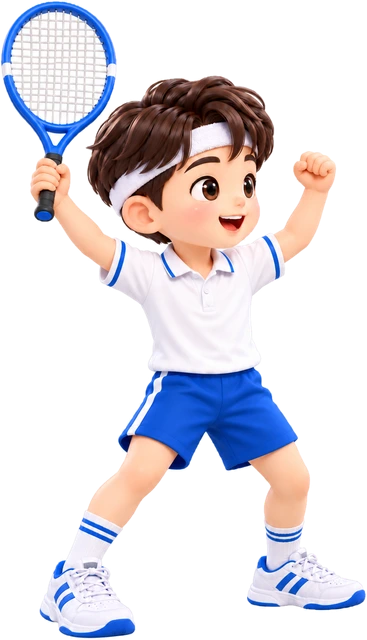
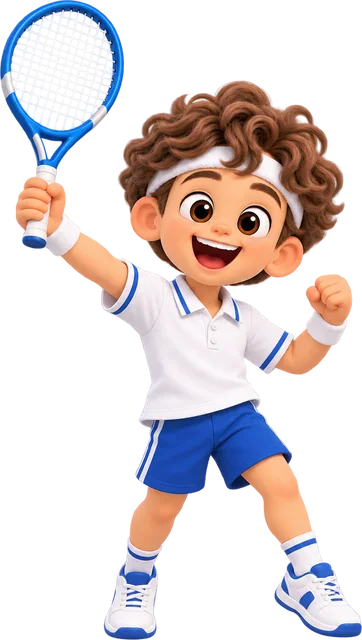
Add files via upload

diff --git a/games/school/judo/index.html b/games/school/judo/index.html
@@ -1,49 +1,46 @@
-<!doctype html><html lang="ko"><head><meta charset="utf-8"><meta name="viewport" content="width=device-width,initial-scale=1,viewport-fit=cover"><title>유도</title><link rel="stylesheet" href="../kit.css"></head><body><script src="../kit.js"></script><script>
-// 유도: 먼저 경례! 그다음 '낙법' — 둥근 신호가 작아질 때 버튼을 눌러 팔로 매트를 탁! 안전하게 넘어지고 다시 일어나요.
-const K = Kit, GOAL = K.easy ? 3 : 5, RING = K.easy ? 2.0 : 1.4, WIN = K.easy ? 0.5 : 0.3;
-let round, state, t, slap, slapQ, perfect, playing, ripple = 0;
-function reset() { round = 0; perfect = 0; playing = true; begin('bow'); K.label('경례!'); }
-function begin(s) { state = s; t = 0; slap = 0; slapQ = 0; if (s === 'bow') K.say('먼저 서로 인사해요. 경례!'); if (s === 'grip') K.say('옷깃을 잡았어요. 신호를 기다려요'); if (s === 'ring') { K.say('신호가 작아질 때 눌러서 팔로 탁!'); K.label('낙법 탁!'); } if (s === 'fall') K.label('낙법 탁!'); }
-K.onPress(() => {
-  if (!playing) return;
-  if (state === 'bow') { begin('bowdo'); return; }
-  if ((state === 'ring' || state === 'fall') && !slap) { slap = 1; const left = RING - t; slapQ = state === 'fall' ? 0.6 : left < WIN * 0.55 ? 2 : left < WIN ? 1 : 0; if (state === 'fall') slapQ = 1; if (slapQ === 2) perfect++; K.beep(220, 0.12, 'square', 0.1); if (state === 'ring') { /* 일찍 눌러도 신호 끝에 쓰러져요 */ } }
-});
-function update(dt) {
-  if (!playing) return; t += dt; ripple = Math.max(0, ripple - dt * 2); K.hud(`${Math.min(round, GOAL)} / ${GOAL}`);
-  if (state === 'bowdo' && t > 1.1) { if (round >= GOAL) { playing = false; K.say('경례! 수고했어요'); setTimeout(() => K.finish('멋진 유도! 참 잘했어요', '안전하게 넘어지고 일어나는 법을 배웠어요!', perfect >= GOAL ? 3 : perfect >= 1 ? 2 : 1, reset), 700); } else begin('grip'); }
-  else if (state === 'grip' && t > 1.0) begin('ring');
-  else if (state === 'ring' && t > RING) { begin('fall'); }
-  else if (state === 'fall' && t > 0.55) { if (slapQ === 0) slapQ = 0.4; ripple = 1; K.burst(K.W * 0.34, K.H * 0.8, slapQ >= 1 ? '#ffd24a' : '#fff', slapQ >= 1 ? 16 : 6); K.say(slapQ >= 2 ? '완벽한 낙법! 최고예요 👍' : slapQ >= 1 ? '좋은 낙법! 잘했어요' : '괜찮아요, 다음엔 팔로 탁!'); if (slapQ >= 1) K.good(); else K.soft(); begin('lie'); }
-  else if (state === 'lie' && t > 1.4) { begin('rise'); }
-  else if (state === 'rise' && t > 1.0) { round++; if (round >= GOAL) { begin('bow'); K.say('마지막 인사! 경례!'); K.label('경례!'); } else begin('grip'); }
-}
+<!doctype html><html lang="ko"><head><meta charset="utf-8"><meta name="viewport" content="width=device-width,initial-scale=1,viewport-fit=cover"><title>유도복 입기</title><link rel="stylesheet" href="../kit.css"></head><body><script src="../kit.js"></script><script>
+// 유도: 도복 입기. 버튼을 한 번 누를 때마다 도복 한 벌씩 입고, 마지막엔 멋지게 경례! 틀리거나 늦는 일이 없어요.
+const K = Kit;
+const STEPS = [
+  { say: '먼저 도복 상의와 띠를 입어요!', label: '상의 입기!', items: ['item_top', 'item_belt'], pose: 'judo_1', done: '도복 상의와 띠 완성!' },
+  { say: '이번엔 도복 바지를 입어요!', label: '바지 입기!', items: ['item_pants'], pose: 'judo_3', done: '도복 바지까지 완성!' },
+  { say: '다 입었어요! 서로 인사해요', label: '경례!', items: [], pose: 'judo_bow', done: '경례! 멋진 유도 선수예요' }];
+let step, t, fly, pose, playing, wearT, bowT, flyT0 = 0;
 const ease = (x) => x * x * (3 - 2 * x);
+function reset() { step = 0; t = 0; fly = 0; pose = 'judo_0'; playing = true; wearT = 0; bowT = 0; K.say(STEPS[0].say); K.label(STEPS[0].label); K.hud('0 / 3'); }
+K.onPress(() => {
+  if (!playing || fly > 0) return;
+  const S = STEPS[step]; fly = 1; flyT0 = t; wearT = 0; K.beep(520 + step * 120, 0.12);
+  setTimeout(() => { pose = S.pose; wearT = 1; K.good(); K.burst(K.W * 0.34, K.H * 0.5, '#ffd24a', 18); K.say(S.done); K.hud(`${step + 1} / 3`);
+    setTimeout(() => {
+      step++; fly = 0;
+      if (step >= STEPS.length) { playing = false; setTimeout(() => K.finish('멋진 유도복! 참 잘했어요', '도복을 모두 입고 경례까지 했어요!', 3, reset), 1000); }
+      else { K.say(STEPS[step].say); K.label(STEPS[step].label); }
+    }, 900);
+  }, 650);
+});
+function update(dt) { t += dt; wearT = Math.max(0, wearT - dt * 2); }
 function draw(c, W, H) {
-  const gy = H * 0.76, s = Math.min(H, W) * 0.2; K.sky(gy, '#f8f1e2', '#fff9ee');
-  c.fillStyle = '#ece0c6'; c.fillRect(0, 0, W, gy * 0.9); c.fillStyle = '#c9b78d'; for (let x = 0; x < W; x += 140) c.fillRect(x, 0, 5, gy * 0.9); K.text('柔道', W / 2, H * 0.16, Math.min(H, W) * 0.12, '#c9b78d');
-  // 다다미 매트
+  const gy = H * 0.7, s = Math.min(H, W) * 0.2; K.sky(gy, '#f8f1e2', '#fff9ee');
+  c.fillStyle = '#ece0c6'; c.fillRect(0, 0, W, gy * 0.9); c.fillStyle = '#c9b78d'; for (let x = 0; x < W; x += 140) c.fillRect(x, 0, 5, gy * 0.9); K.text('柔道', W / 2, H * 0.14, Math.min(H, W) * 0.12, '#c9b78d');
   const cols = ['#8ec26f', '#7bb35f']; for (let i = 0; i < 8; i++) { c.fillStyle = cols[i % 2]; c.beginPath(); c.moveTo(i * W / 8 - 30, gy); c.lineTo((i + 1) * W / 8 - 30, gy); c.lineTo((i + 1) * W / 8 + 10, H); c.lineTo(i * W / 8 + 10, H); c.fill(); }
   c.fillStyle = '#c0392b'; c.fillRect(0, gy, W, 6);
-  const ux = W * 0.34, tx = W * 0.66; // 나(uke, 흰 도복) / 파트너(tori, 파란 도복)
-  const bow = state === 'bowdo' ? Math.sin(Math.min(1, t / 1.1) * Math.PI) * 0.4 : state === 'bow' ? 0 : 0;
-  const grip = (state === 'grip' || state === 'ring' || state === 'fall') ? 1 : 0;
-  // 파트너(파란 셔츠 친구)
-  const ta = state === 'fall' ? Math.min(1, t / 0.55) : 0, hs = s * 2.3;
-  K.spr('sq', tx, gy + 26, hs * 0.92, { face: -1, rot: -(bow + ta * 0.1), px: 0.5 });
-  // 나(달리기 소년): 경례 → 잡기 → 낙법 → 일어나기
-  const lieY = gy + 26 - s * 0.05;
-  let rot = bow, px = ux, py = gy + 26, nm = grip ? 'run_ready' : 'run_idle';
-  if (grip) nm = 'run_idle';
-  if (state === 'fall') { const k = ease(Math.min(1, t / 0.55)); rot = -k * Math.PI / 2; px = ux + k * hs * 0.38; nm = 'run_idle'; }
-  if (state === 'lie') { rot = -Math.PI / 2; px = ux + hs * 0.38; nm = 'run_idle'; }
-  if (state === 'rise') { const k = ease(Math.min(1, t / 1.0)); rot = -(1 - k) * Math.PI / 2; px = ux + (1 - k) * hs * 0.38; nm = k > 0.8 ? 'win' : 'run_idle'; }
-  K.spr(nm, px, py, hs, { rot, px: 0.5, shadow: state !== 'lie' });
-  // 매트 울림
-  if (ripple > 0) { c.strokeStyle = `rgba(255,255,255,${ripple})`; c.lineWidth = 6; c.beginPath(); c.ellipse(ux - s * 0.5, gy + 30, s * (1.6 - ripple), s * 0.25 * (1.6 - ripple), 0, 0, 7); c.stroke(); K.text('탁!', ux - s * 0.5, gy - s * 0.4 - (1 - ripple) * 30, 44, `rgba(216,75,42,${ripple})`); }
-  if (state === 'ring') K.ring(ux + s * 0.1, gy - s * 1.6, 34, (RING - t) / RING * 0.9, RING - t < WIN ? '#25b455' : '#ff7a2f');
+  const hh = s * 2.7, cx = W * 0.36, bob = Math.sin(t * 3) * 3 + wearT * -10;
+  K.spr(pose, cx, gy + 24 + bob, hh, { px: 0.51 });
+  K.spr('sq', W * 0.8, gy + 26, s * 2.1, { face: -1 });
+  // 입을 옷: 위에서 통통 튀며 기다리다가, 버튼을 누르면 몸으로 날아가요
+  if (playing && step < STEPS.length) {
+    const S = STEPS[step], n = S.items.length, ih = s * 1.25;
+    S.items.forEach((nm, i) => {
+      const bx = W * 0.64 + (i - (n - 1) / 2) * ih * 1.15, by = H * 0.42 + Math.sin(t * 3 + i) * 8;
+      const k = fly > 0 ? Math.min(1, (t - flyT0) / 0.65) : 0;
+      const x = bx + (cx - bx) * ease(k), y = by + (H * 0.5 - by) * ease(k), a = fly > 0 ? 1 - ease(k) : 1;
+      K.spr(nm, x, y + ih / 2, ih * (1 - 0.35 * k), { px: 0.5, shadow: false, alpha: Math.max(0, a) });
+    });
+    if (!fly) K.text('▶', W * 0.5, H * 0.42, s * 0.5, '#ff7a2f');
+  }
   K.drawParticles(1 / 60);
 }
-K.start('🥇 유도', '먼저 서로 경례!<br>그다음 둥근 신호가 작아질 때<br>큰 버튼을 눌러 팔로 매트를 탁!<br>안전하게 넘어지는 연습이에요.', reset);
+K.start('🥋 유도복 입기', '버튼을 누를 때마다<br>도복을 한 벌씩 입어요.<br>마지막엔 멋지게 경례!', () => { reset(); });
 K.run(update, draw);
 </script></body></html>

diff --git a/js/main.js b/js/main.js
@@ -235,11 +235,11 @@ CHERRY.forEach(([cx, cz], i) => {
 { const pa = DECOR.find((d) => d.id === 'patio'); const F = pa.size;
   for (const [tx, tz] of [[-0.305, 0.02], [0.305, 0.02]]) { const cx = pa.x + tx * F, cz = pa.z + tz * F;
     for (const a of [0, 1, 2, 3]) { const ang = a * Math.PI / 2 + Math.PI / 4, ex = cx + Math.cos(ang) * 1.55, ez = cz + Math.sin(ang) * 1.45;
-      addSpot({ kind: 'sit', x: ex, z: ez, face: Math.atan2(cx - ex, cz - ez), stand: { x: cx + Math.cos(ang) * 2.8, z: cz + Math.sin(ang) * 2.7 }, label: '앉기', ico: '☕', r: 1.7, camFront: [4.2, 6.5], say: '카페 의자에 앉았어요. 걸으면 일어나요.', tip: { x: ex, y: 2.2, z: ez } }); } } }
+      addSpot({ kind: 'sit', x: ex, z: ez, face: Math.atan2(cx - ex, cz - ez), stand: { x: cx + Math.cos(ang) * 2.8, z: cz + Math.sin(ang) * 2.7 }, label: '앉기', ico: '☕', r: 1.7, patio: true, camFront: [3.2, 3.3], camAng: Math.PI, say: '카페 의자에 앉았어요. 걸으면 일어나요.', tip: { x: ex, y: 2.2, z: ez } }); } } }
 // 수영장: 승강 의자(앉기), 출발대(올라서서 수영장 정면 보기), 물속 걷기
 const POOL = { deck: { x0: 20.4, x1: 39.6, z0: -27.6, z1: -8.4 }, water: { x0: 21.9, x1: 36.9, z0: -25.2, z1: -9.6 }, chair: { x: 37.0, z: -15.4 } };
-addSpot({ kind: 'sit', x: POOL.chair.x, z: POOL.chair.z, y: 0.95, face: -Math.PI / 2, stand: { x: 38.8, z: POOL.chair.z + 1.2 }, label: '앉기', ico: '♿', r: 2.4, camFront: [4.5, 7], say: '수영장 승강 의자예요. 휠체어 친구들이 물에 들어갈 때 써요!', tip: { x: POOL.chair.x, y: 3, z: POOL.chair.z } });
-for (const bx of [24.2, 28.6, 33.2]) addSpot({ kind: 'view', x: bx, z: -26.3, y: 3.45, face: 0, stand: { x: bx, z: -23.6 }, label: '출발대 서기', ico: '🏊', r: 1.9, say: '출발대 위에서 수영장 정면을 바라봐요! 걸으면 내려와요.', tip: { x: bx, y: 3, z: -26.3 } });
+addSpot({ kind: 'sit', x: 36.5, z: POOL.chair.z, y: 2.15, face: -Math.PI / 2, stand: { x: 38.8, z: POOL.chair.z + 1.2 }, label: '앉기', ico: '♿', r: 2.4, camFront: [4.5, 7], say: '수영장 승강 의자예요. 휠체어 친구들이 물에 들어갈 때 써요!', tip: { x: POOL.chair.x, y: 3, z: POOL.chair.z } });
+for (const bx of [24.0, 29.0, 34.0]) addSpot({ kind: 'view', x: bx, z: -26.2, y: 3.4, face: 0, stand: { x: bx, z: -23.6 }, label: '출발대 서기', ico: '🏊', r: 1.9, say: '출발대 위에서 수영장 정면을 바라봐요! 걸으면 내려와요.', tip: { x: bx, y: 3, z: -26.3 } });
 // 거리 분위기용 가로등
 for (const [lx, lz] of [[-3.2, 27], [3.2, 27], [-3.2, 20], [3.2, 20], [-16, 13.5], [14, 9.4], [-3.2, -8], [3.2, -8], [-18, -1.5], [18, 1]]) {
   place({ model: 'lamp.glb', size: 4.4, rotY: lx > 0 ? 180 : 0, x: lx, z: lz }, () => { const l = P.box(0.2, 4, 0.2, P.mat(0x55555f)); l.position.y = 2; return l; }); circles.push({ x: lx, z: lz, r: 0.35 });
@@ -434,14 +434,23 @@ let camYaw = 0, camPitch = 0.8327, camZoomK = 1, camHold = null, camMix = 0, bob
 const racer = { holder: decorHolder.racer, spot: null };
 if (racer.holder) racer.spot = addSpot({ kind: 'ride', x: DECOR.find((d) => d.id === 'racer').x, z: DECOR.find((d) => d.id === 'racer').z, r: 2.6, label: '타기', ico: '🏁', say: '파란 레이싱 휠체어예요! 타기 버튼을 눌러 보세요.', tip: { x: DECOR.find((d) => d.id === 'racer').x, y: 2.6, z: DECOR.find((d) => d.id === 'racer').z } });
 const nearSpot = () => { let best = null, bd = 1e9; for (const sp of spots) { if (sp.kind === 'ride' && riding) continue; const d = Math.hypot(player.position.x - sp.x, player.position.z - sp.z); if (d < sp.r && d < bd) { bd = d; best = sp; } } return best; };
+// 카페 파라솔(빨간 지붕)은 앉았을 때 투명하게 해서 안이 보이게 해요
+let canopyMats = null;
+function canopyFade(on) {
+  const h = decorHolder.patio; if (!h) return;
+  if (!canopyMats) { canopyMats = []; h.updateMatrixWorld(true); const bx = new THREE.Box3();
+    h.traverse((o) => { if (!o.isMesh) return; bx.setFromObject(o); if (bx.min.y < 2.3) return; // 머리 위에 있는 부분만(지붕)
+      o.material = Array.isArray(o.material) ? o.material.map((m) => m.clone()) : o.material.clone(); (Array.isArray(o.material) ? o.material : [o.material]).forEach((m) => canopyMats.push(m)); }); }
+  canopyMats.forEach((m) => { m.transparent = on; m.opacity = on ? 0.22 : 1; m.depthWrite = !on; m.needsUpdate = true; });
+}
 const seatY = (sp) => sp.y ?? groundY(sp.x, sp.z);
 function sitDown(sp) {
   if (sp.kind === 'ride') return mountRacer();
-  cancelAuto(); vel.set(0, 0, 0); joy.x = joy.y = 0; seat = sp; player.position.set(sp.x, seatY(sp), sp.z); facing = sp.face; player.rotation.y = facing; say(sp.say, 4.5);
+  cancelAuto(); vel.set(0, 0, 0); joy.x = joy.y = 0; seat = sp; canopyFade(!!sp.patio); player.position.set(sp.x, seatY(sp), sp.z); facing = sp.face; player.rotation.y = facing; say(sp.say, 4.5);
 }
 function standUp() {
   if (riding) return dismountRacer();
-  if (!seat) return; const sp = seat; seat = null; if (sp.stand) player.position.set(sp.stand.x, sp.stand.y || 0, sp.stand.z); say('좋아요! 다시 둘러봐요.', 2);
+  if (!seat) return; const sp = seat; seat = null; if (sp.patio) canopyFade(false); if (sp.stand) player.position.set(sp.stand.x, sp.stand.y || 0, sp.stand.z); say('좋아요! 다시 둘러봐요.', 2);
 }
 function mountRacer() {
   cancelAuto(); vel.set(0, 0, 0); riding = true; seat = null; const c = decorCircle.racer; if (c) c.r = 0;
@@ -803,7 +812,7 @@ function frameLoop() {
   } else {
     const pit = camPitch, sat = Math.min(1, Math.max(0, pit / 0.83)), rr = 23 * dist * (0.35 + 0.65 * sat), cp = Math.cos(pit), sp = Math.sin(pit);
     tmp.set(player.position.x + Math.sin(camYaw) * cp * rr, Math.max(player.position.y + 1.0, player.position.y + sp * rr), player.position.z + Math.cos(camYaw) * cp * rr);
-    if (camMix > 0.001 && seat && seat.camFront) { const f = seat.face; tmp.lerp(tmp2.set(player.position.x + Math.sin(f) * seat.camFront[1], player.position.y + seat.camFront[0], player.position.z + Math.cos(f) * seat.camFront[1]), camMix); }
+    if (camMix > 0.001 && seat && seat.camFront) { const f = seat.face + (seat.camAng || 0); tmp.lerp(tmp2.set(player.position.x + Math.sin(f) * seat.camFront[1], player.position.y + seat.camFront[0], player.position.z + Math.cos(f) * seat.camFront[1]), camMix); }
     if (camView > 0.001) { const f = player.rotation.y; tmp.lerp(tmp2.set(player.position.x - Math.sin(f) * 6.5, player.position.y + 6.2, player.position.z - Math.cos(f) * 6.5), camView); }
     if (!camInit) { camPos.copy(tmp); camInit = true; }
     camPos.lerp(tmp, 1 - Math.exp(-(calm ? 20 : 6) * dt)); camera.position.copy(camPos);

diff --git a/games/school/taekwondo/index.html b/games/school/taekwondo/index.html
@@ -10,7 +10,7 @@ K.onPress(() => {
   if (state === 'pad') {
     const left = RING - padT, ok = left < WIN, good = left < WIN * 0.55; kick = 1; kickH = padH; state = 'kick';
     hits++; n++; if (good) { perfect++; K.say('쾅! 격파 성공! 최고예요!'); } else if (ok) K.say('좋아요! 격파!'); else K.say('힘찬 발차기! 격파!');
-    K.good(); setTimeout(() => { const bx = K.W * 0.34 + Math.min(K.W, K.H) * 0.2 * 1.12, by = K.H * 0.72 - padH * Math.min(K.H, K.W) * 0.19; K.burst(bx, by, '#e9b873', 18); K.burst(bx, by, '#fff', 8); K.beep(160, 0.18, 'square', 0.14); brokeT = 0.001; pieces = []; for (let i = 0; i < boards * 2; i++) pieces.push({ x: bx, y: by, vx: (i % 2 ? 1 : -1) * (90 + Math.random() * 120), vy: -160 - Math.random() * 120, r: 0, vr: (i % 2 ? 1 : -1) * (4 + Math.random() * 4), lay: (i >> 1) }); }, 140);
+    K.good(); setTimeout(() => { const sS = Math.min(K.H, K.W) * 0.2, bx = K.W * 0.34 - 0.1 * sS + (0.998 - 0.326) * (sS * 2.5 * 515 / 640) - 6, by = K.H * 0.72 + 20 - sS * 2.5 * 0.60 - (padH - 1.15) * sS * 0.25; K.burst(bx, by, '#e9b873', 18); K.burst(bx, by, '#fff', 8); K.beep(160, 0.18, 'square', 0.14); brokeT = 0.001; pieces = []; for (let i = 0; i < boards * 2; i++) pieces.push({ x: bx, y: by, vx: (i % 2 ? 1 : -1) * (90 + Math.random() * 120), vy: -160 - Math.random() * 120, r: 0, vr: (i % 2 ? 1 : -1) * (4 + Math.random() * 4), lay: (i >> 1) }); }, 140);
     setTimeout(() => { if (hits >= GOAL) { playing = false; K.say('경례!'); const r = perfect / hits; setTimeout(() => K.finish('멋진 태권도! 참 잘했어요', `${GOAL}번 힘차게 차 냈어요!`, r > 0.5 ? 3 : r > 0.2 ? 2 : 1, reset), 900); } else next(); }, 950);
   }
 });
@@ -31,19 +31,18 @@ function draw(c, W, H) {
   // 사범님 + 미트
   const px = W * 0.34, ox = W * 0.74, ph = padH || 1.15;
   K.spr('sq', ox, gy + 20, s * 2.1, { face: -1 });
-  const mx = px + s * 1.12, my = gy - ph * s * 0.95;
+  const mx = px - 0.1 * s + (0.998 - 0.326) * (s * 2.5 * 515 / 640) - 6, my = gy + 20 - s * 2.5 * 0.60 - (ph - 1.15) * s * 0.25;
   const bh = s * 0.9, bw = 16;
   const plank = (x, y, w, h, tone) => { K.rr(x, y, w, h, 3, tone, '#8a5a2b'); c.strokeStyle = '#a9743a'; c.lineWidth = 1.5; for (let g = 1; g < 4; g++) { c.beginPath(); c.moveTo(x + w * g / 4, y + 3); c.lineTo(x + w * g / 4, y + h - 3); c.stroke(); } };
   if (state !== 'bow') {
     if (brokeT <= 0) { c.save(); c.translate(mx, my); const sh = state === 'kick' ? Math.sin(K.t * 60) * 3 : 0; c.translate(sh, 0); for (let i = 0; i < boards; i++) plank(-bw / 2 + i * 10 - (boards - 1) * 5, -bh / 2, bw, bh, ['#e8c288', '#e0b676', '#d8aa68'][i]); K.rr(14, -8, 26, 16, 8, '#f2c29b'); c.restore(); }
     else for (const p of pieces) { c.save(); c.translate(p.x, p.y); c.rotate(p.r); plank(-bw / 2 - 4, -bh / 4, bw, bh / 2, '#e0b676'); c.restore(); }
   }
-  // 나: 옥쌤 교실의 달리기 소년 (차렷 → 준비 → 발차기)
+  // 나: 새 그림 (준비 자세 → 발차기). 두 그림은 크기가 같게 맞춰져 있어요.
   const bowK = state === 'bow' ? Math.sin(Math.min(1, (1.2 - bowT) / 0.6) * Math.PI) * 0.4 : 0;
-  let nm = 'run_idle', rot = bowK, dx = 0;
-  if (kick > 0 || state === 'kick') { const k = Math.sin(Math.min(1, 1 - kick) * Math.PI); nm = k > 0.15 ? 'hurdle' : 'run_idle'; rot = -(ph - 1.15) * 0.16 * k; dx = k * s * 0.45; }
-  if (state === 'kick' && kick <= 0 && hits > 0) nm = 'win';
-  const kk = nm === 'hurdle'; K.spr(nm, px + dx, gy + 20, kk ? s * 2.4 * 0.62 : s * 2.4, { rot, px: 0.45, crop: kk ? 0.6 : 1, lift: kk ? s * 0.55 : 0 });
+  const kicking = kick > 0 || state === 'kick'; const kk = kicking ? Math.sin(Math.min(1, 1 - kick) * Math.PI) : 0, isKick = kicking && kk > 0.15;
+  const hh = s * 2.5, fx = px - 0.1 * s;
+  K.spr(isKick ? 'tkd_kick' : 'tkd_ready', fx, gy + 20, hh, { rot: isKick ? 0 : bowK * 0.5, px: isKick ? 0.326 : 0.429 });
   if (state === 'pad') K.ring(mx - 4, my, 36, (RING - padT) / RING * 0.9, RING - padT < WIN ? '#25b455' : '#ff7a2f');
   K.drawParticles(1 / 60);
 }

diff --git a/games/school/swimming/index.html b/games/school/swimming/index.html
@@ -28,17 +28,17 @@ function draw(c, W, H) {
   const ly = wl + 46; for (let x = -60; x < W + 60; x += 46) { const xx = x + ((-dist * 140) % 46); K.circle(xx, ly + Math.sin(K.t * 3 + x) * 2, 11, ((x / 46) | 0) % 2 ? '#ff6b6b' : '#fff'); }
   // 도착 벽
   const toGoal = GOAL - dist; if (toGoal < 12) { const wx = W * 0.5 + toGoal * 130; K.rr(wx, wl - 20, 120, H, 0, '#f6f1e7'); K.rr(wx, wl + 20, 14, H, 0, '#2a79b8'); K.text('도착!', wx + 60, wl + 90, 34, '#d84b2a'); }
-  // 헤엄치는 아이: 옥쌤 교실의 달리기 소년이 물에 엎드려 팔을 번갈아 저어요
-  const sx = W * 0.38, sy = wl + 70 + Math.sin(wob) * 5, a = stroke, ph = Math.sin(wob * 1.6) > 0 || a > 0.5 ? 'run_a' : 'run_b', sh = Math.min(H, W) * 0.42;
-  K.spr(ph, sx, sy + sh * 0.12, sh, { rot: 1.3 + Math.sin(wob) * 0.04, shadow: false, px: 0.5 });
+  // 헤엄치는 아이: 새로 만든 자유형 그림(팔 위치 두 가지)을 번갈아 보여줘요
+  const sx = W * 0.4, sy = wl + 56 + Math.sin(wob) * 5, a = stroke, ph = Math.sin(wob * 1.6) > 0 || a > 0.5 ? 'swim_a' : 'swim_b', sh = Math.min(H, W) * 0.3;
+  K.spr(ph, sx, sy + sh * 0.4, sh, { rot: Math.sin(wob) * 0.03, shadow: false, px: 0.5 });
   // 몸 아래쪽은 물 속에 잠겨 보여요
   const wg = c.createLinearGradient(0, sy - 8, 0, sy + sh * 0.5); wg.addColorStop(0, '#5fd0eecc'); wg.addColorStop(1, '#1f8fc9ee'); c.fillStyle = wg; c.fillRect(0, sy - 8, W, H);
   c.strokeStyle = '#ffffffcc'; c.lineWidth = 4; c.beginPath(); for (let x = 0; x <= W; x += 12) c.lineTo(x, sy - 8 + Math.sin(x * 0.04 + K.t * 4) * 3); c.stroke();
   c.fillStyle = '#ffffffaa'; c.fillRect(0, wl - 3, W, 6); // 수면선
   // 물보라
-  for (const p of splash) { p.l -= 1 / 60; p.x += p.vx / 60; p.y += p.vy / 60; p.vy += 8; K.circle(sx + 70 + p.x, sy - 10 + p.y, 6, '#fff'); } splash = splash.filter((p) => p.l > 0);
+  for (const p of splash) { p.l -= 1 / 60; p.x += p.vx / 60; p.y += p.vy / 60; p.vy += 8; K.circle(sx + sh * 0.9 + p.x, sy - 10 + p.y, 6, '#fff'); } splash = splash.filter((p) => p.l > 0);
   // 박자 신호
-  const p = beatT / BEAT, rr = 36; K.ring(W * 0.38 + 60, wl - 70, rr, 1 - p, p > 1 - WIN / BEAT * 1.2 || p < WIN / BEAT * 0.6 ? '#25b455' : '#ff7a2f');
+  const p = beatT / BEAT, rr = 36; K.ring(W * 0.4 + 60, wl - 90, rr, 1 - p, p > 1 - WIN / BEAT * 1.2 || p < WIN / BEAT * 0.6 ? '#25b455' : '#ff7a2f');
 }
 K.start('🏊 수영', '둥근 신호가 작아져서 딱 맞을 때<br>큰 버튼을 눌러요. 늦어도 괜찮아요!', reset);
 K.run(update, draw);

diff --git a/games/school/kit.js b/games/school/kit.js
@@ -75,6 +75,9 @@ const Kit = (() => {
   const load = (k, url) => { const im = new Image(); im.onload = () => { try { SP[k] = trim(im); } catch (e) { SP[k] = { img: im, sx: 0, sy: 0, sw: im.naturalWidth, sh: im.naturalHeight }; } }; im.src = url; };
   for (const k in FILES) load(k, BASE + FILES[k] + '.webp');
   load('sq', new URL('../../assets/ui/av_squirrel.webp', document.currentScript ? document.currentScript.src : location.href).href); // 학교 다람쥐 마스코트
+  // 새로 만든 그림(games/school/img): 여러 포즈가 같은 크기로 맞춰져 있어서 자르지 않고 그대로 써요
+  const IMG = new URL('img/', document.currentScript ? document.currentScript.src : location.href).href;
+  for (const k of ['swim_a', 'swim_b', 'tkd_ready', 'tkd_kick', 'judo_0', 'judo_1', 'judo_2', 'judo_3', 'judo_bow', 'item_top', 'item_pants', 'item_belt']) { const im = new Image(); im.onload = () => { SP[k] = { img: im, sx: 0, sy: 0, sw: im.naturalWidth, sh: im.naturalHeight }; }; im.src = IMG + k + '.webp'; }
   // K.spr(이름, 발 x, 발 y, 키(px), {face:-1이면 왼쪽 보기, rot, alpha, shadow, px:기준점 가로비율}) → 그려진 가로 너비
   K.spr = (name, x, y, h, o = {}) => { const a = SP[name]; if (!a) return 0; const keep = o.crop || 1, sh = a.sh * keep, w = h * a.sw / sh;
     if (o.shadow !== false) { ctx.fillStyle = '#0002'; ctx.beginPath(); ctx.ellipse(x, y + 2, w * 0.42, h * 0.045, 0, 0, 7); ctx.fill(); }
